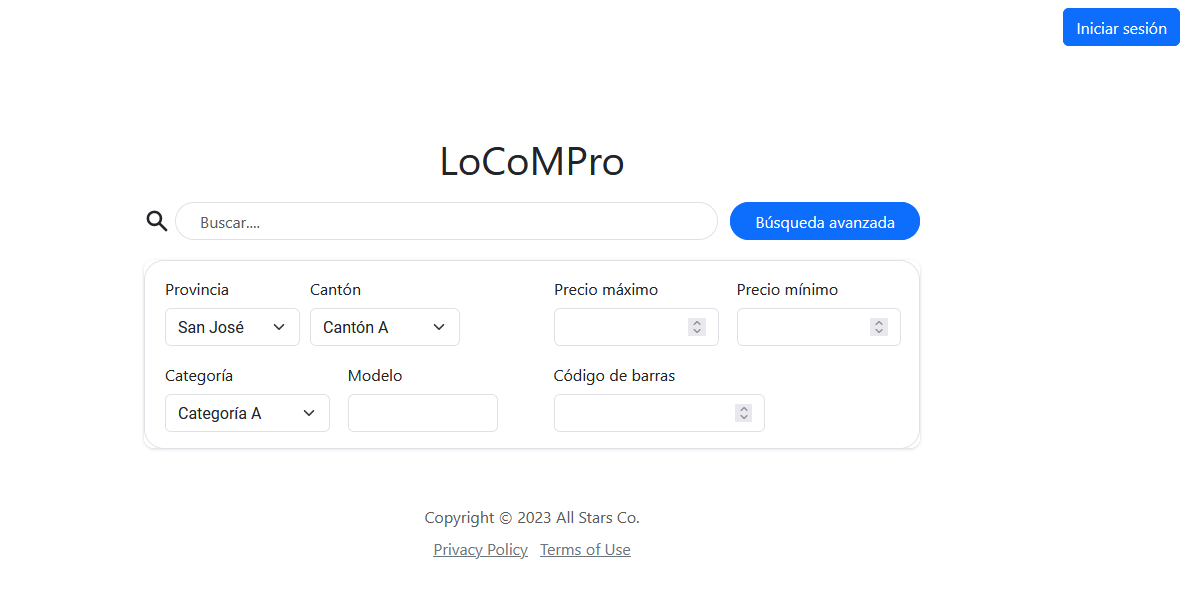
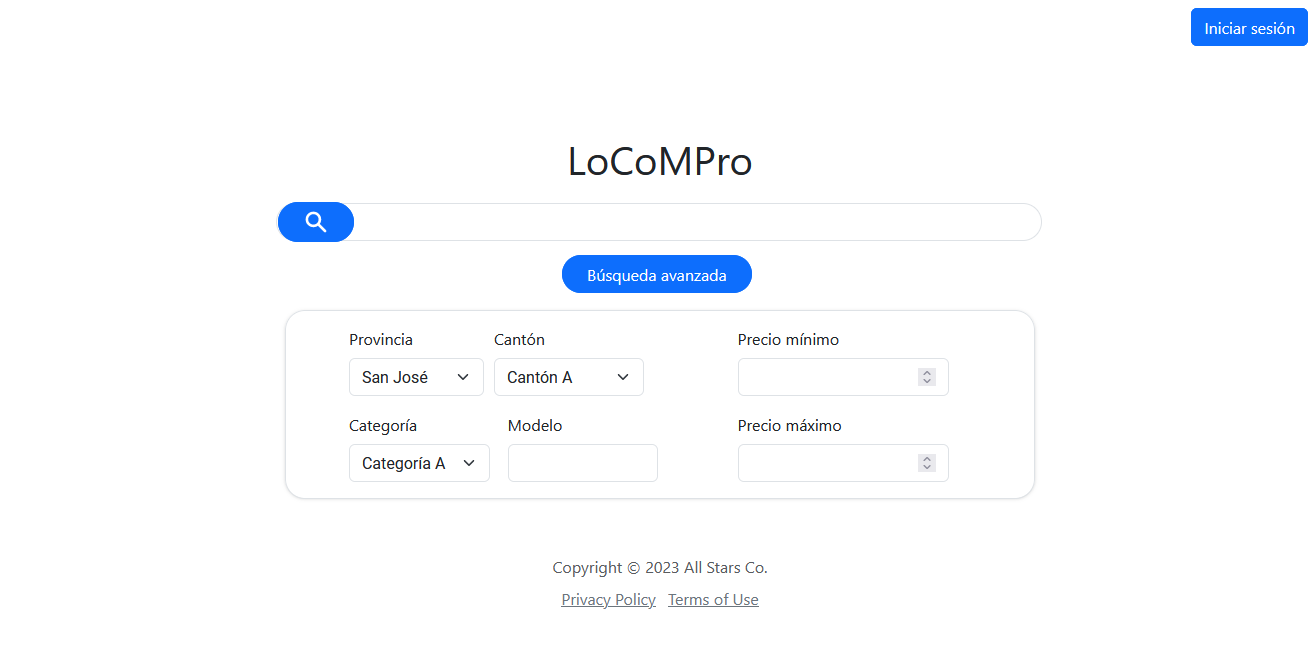
Realiza varias correcciones de mockup

diff --git a/README.md b/README.md
@@ -76,13 +76,11 @@ ci0128_23b_all_stars/
 │           │       <a href="./Design/Mockups/Sprint1/Avance2/busqueda_resultados_producto.png">busqueda_resultados_producto.png</a>  
 │           │       <a href="./Design/Mockups/Sprint1/Avance2/busqueda_resultados_producto_sin_iniciar_sesion.png">busqueda_resultados_producto_sin_iniciar_sesion.png</a>  
 │           │       <a href="./Design/Mockups/Sprint1/Avance2/busqueda_avanzada.png">busqueda_avanzada.png</a>  
-│           │       <a href="./Design/Mockups/Sprint1/Avance2/mi_perfil_de_usuario.png">mi_perfil_de_usuario.png</a>  
-│           │       <a href="./Design/Mockups/Sprint1/Avance2/un_perfil_de_usuario.png">un_perfil_de_usuario.png</a>  
 │           │       <a href="./Design/Mockups/Sprint1/Avance2/agregar_contribucion.png">agregar_contribucion.png</a>  
-│           │       <a href="./Design/Mockups/Sprint1/Avance2/agregar_producto.png">agregar_producto.png</a>  
+│           │       <a href="./Design/Mockups/Sprint1/Avance2/agregar_contribucion_autocompletado.png">agregar_contribucion_autocompletado.png</a>  
+│           │       <a href="./Design/Mockups/Sprint1/Avance2/agregar_producto.png">agregar_producto.png</a>
 │           │       <a href="./Design/Mockups/Sprint1/Avance2/agregar_tienda.png">agregar_tienda.png</a>  
 │           │       <a href="./Design/Mockups/Sprint1/Avance2/resultados_registros.png">resultados_registros.png</a>  
-│           │       <a href="./Design/Mockups/Sprint1/Avance2/resultados_registros_sin_iniciar_sesion.png">resultados_registros_sin_iniciar_sesion.png</a>  
 └───Locompro  
     └───(Proyecto ASP.NET)
 </pre>
